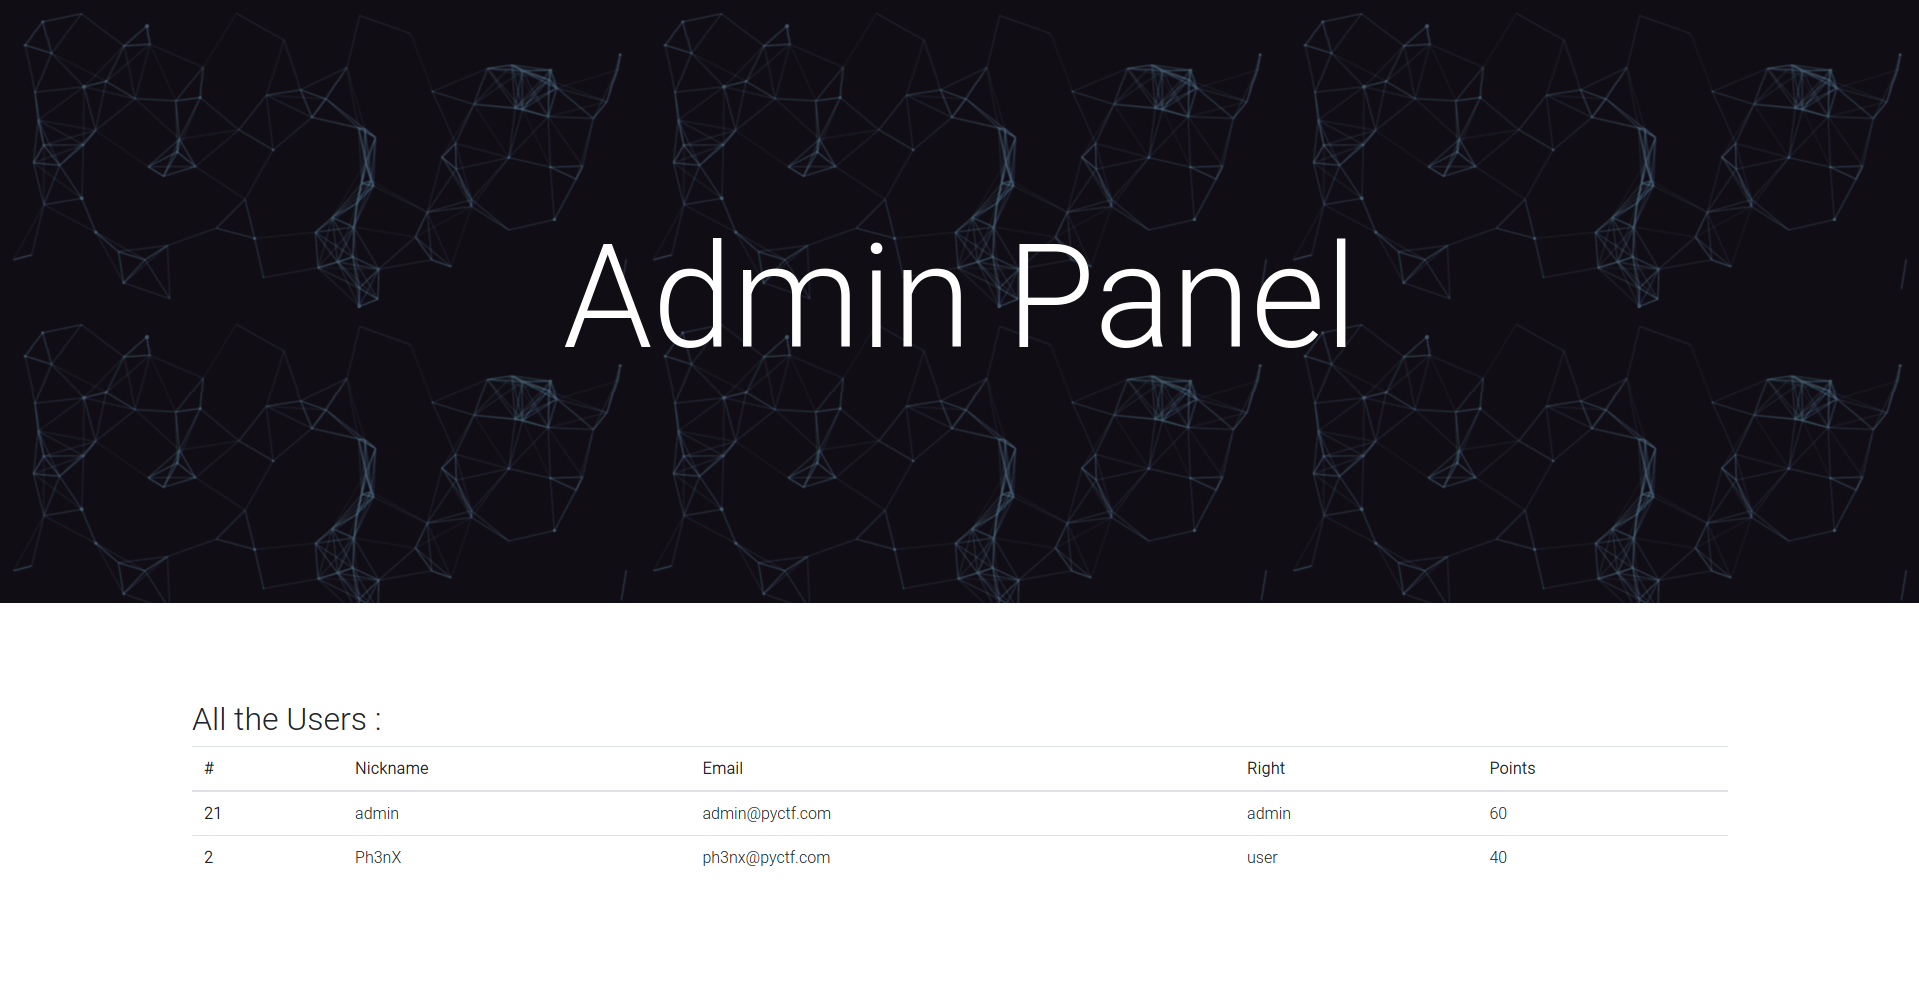
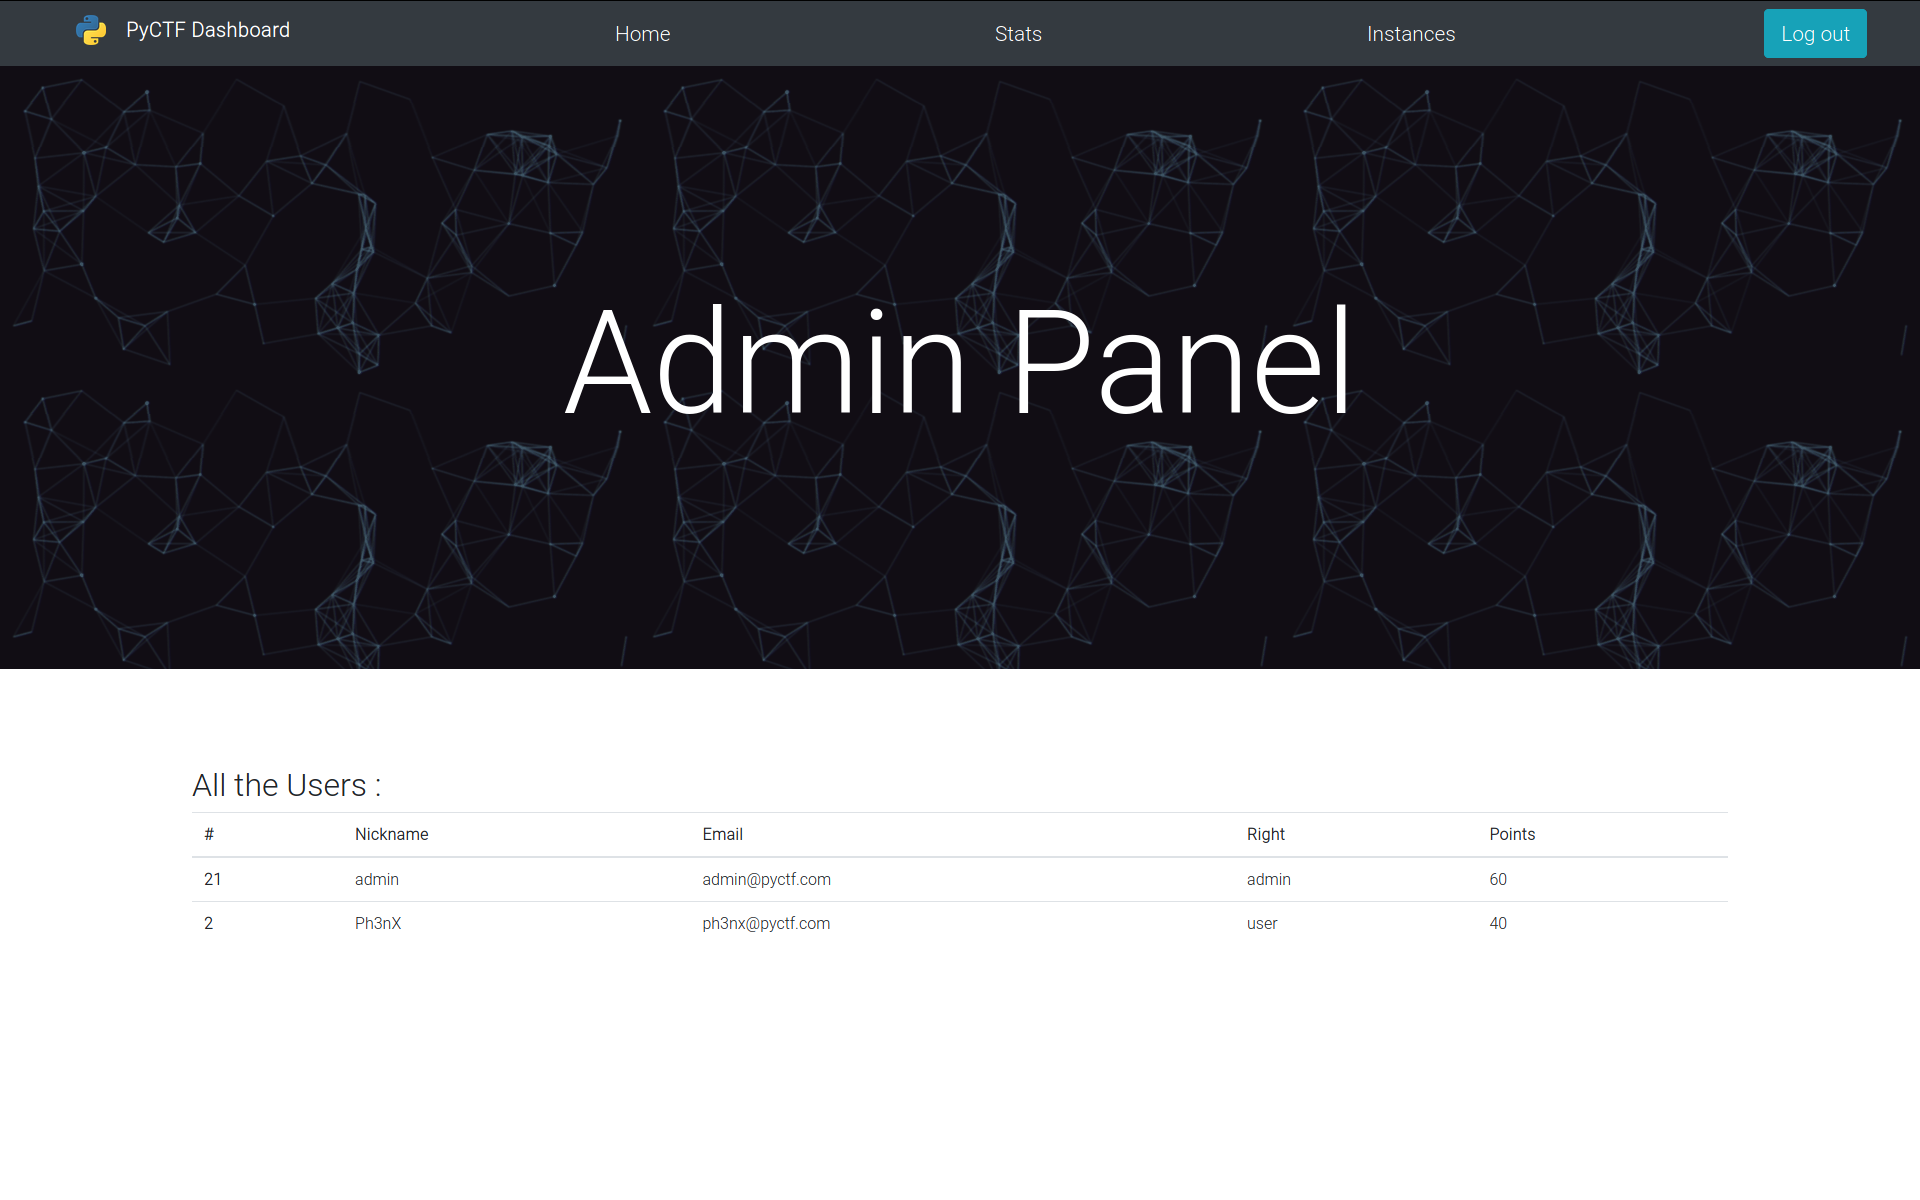
Add files via upload

diff --git a/test_panel/stats.html b/test_panel/stats.html
@@ -1,0 +1,65 @@
+<html>
+    <head>
+        <script src="https://ajax.googleapis.com/ajax/libs/jquery/3.5.1/jquery.min.js"></script>
+        <script src="https://maxcdn.bootstrapcdn.com/bootstrap/3.4.0/js/bootstrap.min.js"></script>
+        <link rel="stylesheet" href="https://stackpath.bootstrapcdn.com/bootstrap/4.3.1/css/bootstrap.min.css" integrity="sha384-ggOyR0iXCbMQv3Xipma34MD+dH/1fQ784/j6cY/iJTQUOhcWr7x9JvoRxT2MZw1T" crossorigin="anonymous">
+        <link rel="stylesheet" href="style.css">
+
+    </head>
+    <body>
+        <section class="horizontalbar">
+            <nav class="navbar navbar-dark bg-dark">
+                        
+                        <h1 class="navbar-brand"><img src="logo3.png" width="30" height="30" class="d-inline-block align-top" alt="">PyCTF Dashboard</h1>
+                        <a href="/home/" class="nav-link">Home</a>
+                        <a href="/stats/" class="nav-link">Stats</a>
+                        <a href="/instances/" class="nav-link" >Instances</a>
+                        <span>
+                            <a href="/logout/" class="btn btn-info btn-lg logout">Log out</a>
+                        </span>
+        </section>
+        <section class="main">
+            <canvas id="myChart" style="max-width: 500px;"></canvas>
+        </section>
+
+    </body>
+    <script>
+        var ctx = document.getElementById("myChart").getContext('2d');
+        var myChart = new Chart(ctx, {
+        type: 'bar',
+        data: {
+        labels: ["Red", "Blue", "Yellow", "Green", "Purple", "Orange"],
+        datasets: [{
+        label: '# of Votes',
+        data: [12, 19, 3, 5, 2, 3],
+        backgroundColor: [
+        'rgba(255, 99, 132, 0.2)',
+        'rgba(54, 162, 235, 0.2)',
+        'rgba(255, 206, 86, 0.2)',
+        'rgba(75, 192, 192, 0.2)',
+        'rgba(153, 102, 255, 0.2)',
+        'rgba(255, 159, 64, 0.2)'
+        ],
+        borderColor: [
+        'rgba(255,99,132,1)',
+        'rgba(54, 162, 235, 1)',
+        'rgba(255, 206, 86, 1)',
+        'rgba(75, 192, 192, 1)',
+        'rgba(153, 102, 255, 1)',
+        'rgba(255, 159, 64, 1)'
+        ],
+        borderWidth: 1
+        }]
+        },
+        options: {
+        scales: {
+        yAxes: [{
+        ticks: {
+        beginAtZero: true
+        }
+        }]
+        }
+        }
+        });
+    </script>
+</html>

diff --git a/test_panel/instances.html b/test_panel/instances.html
@@ -1,0 +1,33 @@
+<html>
+    <head>
+        <script src="https://ajax.googleapis.com/ajax/libs/jquery/3.5.1/jquery.min.js"></script>
+        <script src="https://maxcdn.bootstrapcdn.com/bootstrap/3.4.0/js/bootstrap.min.js"></script>
+        <link rel="stylesheet" href="https://stackpath.bootstrapcdn.com/bootstrap/4.3.1/css/bootstrap.min.css" integrity="sha384-ggOyR0iXCbMQv3Xipma34MD+dH/1fQ784/j6cY/iJTQUOhcWr7x9JvoRxT2MZw1T" crossorigin="anonymous">
+        <link rel="stylesheet" href="style.css">
+
+    </head>
+    <body>
+        <section class="horizontalbar">
+            <nav class="navbar navbar-dark bg-dark">
+                        
+                        <h1 class="navbar-brand"><img src="logo3.png" width="30" height="30" class="d-inline-block align-top" alt="">PyCTF Dashboard</h1>
+                        <a href="/home/" class="nav-link">Home</a>
+                        <a href="/stats/" class="nav-link">Stats</a>
+                        <a href="/instances/" class="nav-link" >Instances</a>
+                        <span>
+                            <a href="/logout/" class="btn btn-info btn-lg logout">Log out</a>
+                        </span>
+        </section>
+        <section class="main">
+            <form method="POST">
+              <select class="custom-select" name="auto">
+                <option value="0" selected>Open this select menu</option>
+                <option value="1">Test</option>
+              </select>
+              <small class="form-text text-muted">Choose one instance to start</small>
+              <button type="submit" name="custom" class="btn btn-outline-secondary btn-lg btn-block">Start</button>
+            </form>
+        </section>
+
+    </body>
+</html>

diff --git a/test_panel/home.html b/test_panel/home.html
@@ -1,0 +1,25 @@
+<html>
+    <head>
+        <script src="https://ajax.googleapis.com/ajax/libs/jquery/3.5.1/jquery.min.js"></script>
+        <script src="https://maxcdn.bootstrapcdn.com/bootstrap/3.4.0/js/bootstrap.min.js"></script>
+        <link rel="stylesheet" href="https://stackpath.bootstrapcdn.com/bootstrap/4.3.1/css/bootstrap.min.css" integrity="sha384-ggOyR0iXCbMQv3Xipma34MD+dH/1fQ784/j6cY/iJTQUOhcWr7x9JvoRxT2MZw1T" crossorigin="anonymous">
+        <link rel="stylesheet" href="style.css">
+
+    </head>
+    <body>
+        <section class="horizontalbar">
+            <nav class="navbar navbar-dark bg-dark">
+                        
+                        <h1 class="navbar-brand"><img src="logo3.png" width="30" height="30" class="d-inline-block align-top" alt="">PyCTF Dashboard</h1>
+                        <a href="/home/" class="nav-link">Home</a>
+                        <a href="/stats/" class="nav-link">Stats</a>
+                        <a href="/instances/" class="nav-link" >Instances</a>
+                        <span>
+                            <a href="/logout/" class="btn btn-info btn-lg logout">Log out</a>
+                        </span>
+        </section>
+        <section class="main">
+        </section>
+
+    </body>
+</html>

diff --git a/test_panel/style.css b/test_panel/style.css
@@ -1,0 +1,33 @@
+.horizontalbar {
+    color:white;
+}
+.horizontalbar :last-child {
+    margin-right: 1em;
+}
+.navbar {
+    justify-content: space-between;
+    width: 100%;
+}
+.navbar a {
+    margin-left: 3em;
+    color: white;
+    font-size: 1.3em;
+}
+.navbar a:hover {
+    color:rgb(196, 196, 196);
+}
+.horizontalbar h1 {
+    font-weight: bold;
+}
+.horizontalbar img {
+    margin-left: 3em;
+    margin-right: 1em;
+}
+.main {
+    width: 100%;
+    height: 100%;
+    padding-left: 15%;
+    padding-right: 15%;
+    background-color: #f4f0ec;
+    color:#343a40!important;
+}

diff --git a/templates/instances.html b/templates/instances.html
@@ -27,6 +27,7 @@
         </section>
         <section class="main">
             <h1>Deploy an instance</h1>
+            <a href="/download_config/">Download your configuration file (openvpn)</a>
             <form method="POST">
               <select class="custom-select" name="auto">
                 <option value="0" selected>Open this select menu</option>

diff --git a/main.py b/main.py
@@ -1,4 +1,4 @@
-from flask import Flask, request, render_template, redirect, send_from_directory, make_response
+from flask import Flask, request, render_template, redirect, send_from_directory, make_response, send_file
 from webob import second
 from libs.users import *
 from libs.utils import *
@@ -194,6 +194,18 @@ def admin():
                 return render_template("admin.html",users=users)
     return redirect("/login/", code=302)
     
+@app.route("/download_config/", methods=["POST","GET"])
+def download_config():
+    if request.cookies.get("user"):
+        if get_email_cookie(request.cookies.get("user")):
+            email = get_email_cookie(request.cookies.get("user"))
+            user1 = User()
+            user1.import_user(email)
+            if "/root/"+str(user1.pseudo)+".ovpn" in glob.glob("/root/*.ovpn"):
+                return send_file(f'/root/{str(user1.pseudo)+".ovpn"}')
+    return redirect("/", code=302)
+
+
 
 
 #app.logger.disabled = True
